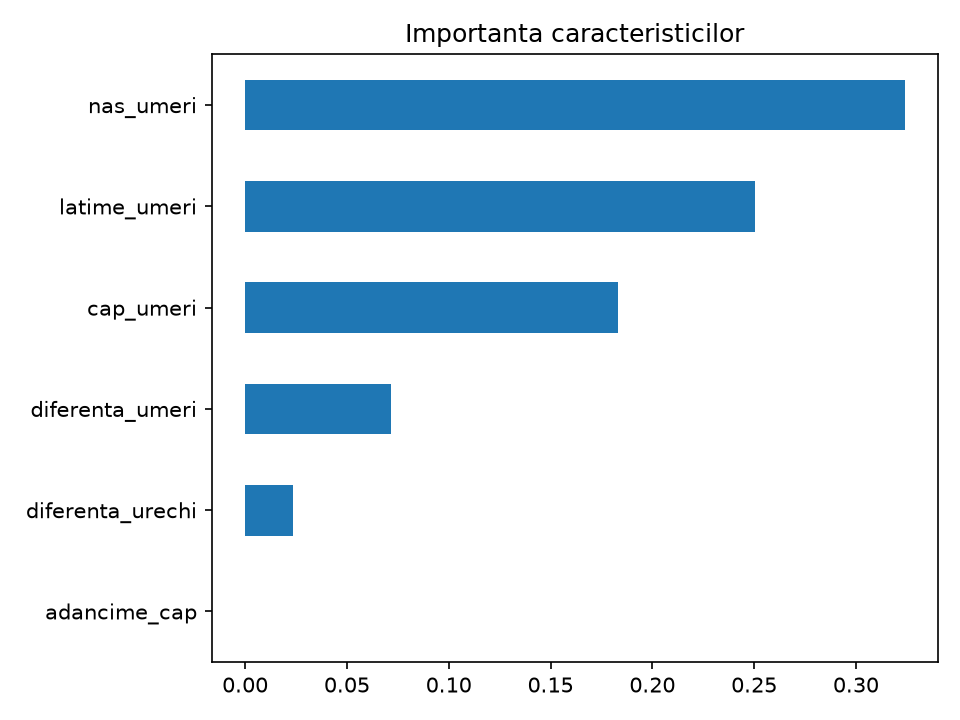
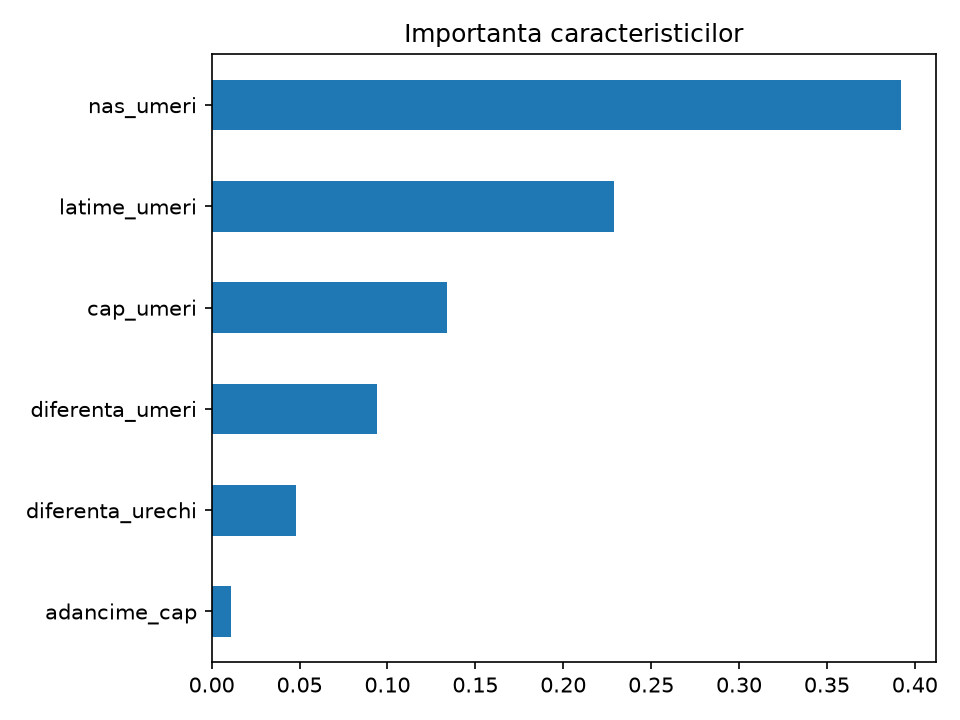
Date noi (cocosat + a doua persoana): rezultate actualizate pe persoane noi

diff --git a/README.md b/README.md
@@ -173,6 +173,17 @@ Rezultatele mele de acum (o persoană, 2 sesiuni; se actualizează după datele 
 > Observă: la împărțirea aleatorie rezultatele sunt **prea bune ca să fie adevărate**, iar Random Forest,
 > „câștigătorul” fals, pică cel mai tare pe date noi. Explicăm de ce în Ziua 5. E cea mai importantă lecție din proiect.
 
+**Cum evoluează scorul pe date noi pe măsură ce adaug oameni** (F1 macro, testat pe grupuri nevăzute):
+
+| Date | Testat pe | Regresie logistică | Random Forest |
+|---|---|---|---|
+| 1 persoană, 2 sesiuni | sesiune nouă | 0.65 | 0.41 |
+| 2 persoane (eu + fratele meu, cu doar ~750 de cadre) | **persoană nouă** | 0.47 | 0.58 |
+| 4–5 persoane | persoană nouă | *urmează* | *urmează* |
+
+> Scăderea e cinstită: testul pe o **persoană** nouă e mult mai greu decât pe o sesiune nouă,
+> iar a doua persoană are încă puține date. Graficele din `results/` arată stadiul actual.
+
 ---
 
 ## 📁 Structura proiectului
